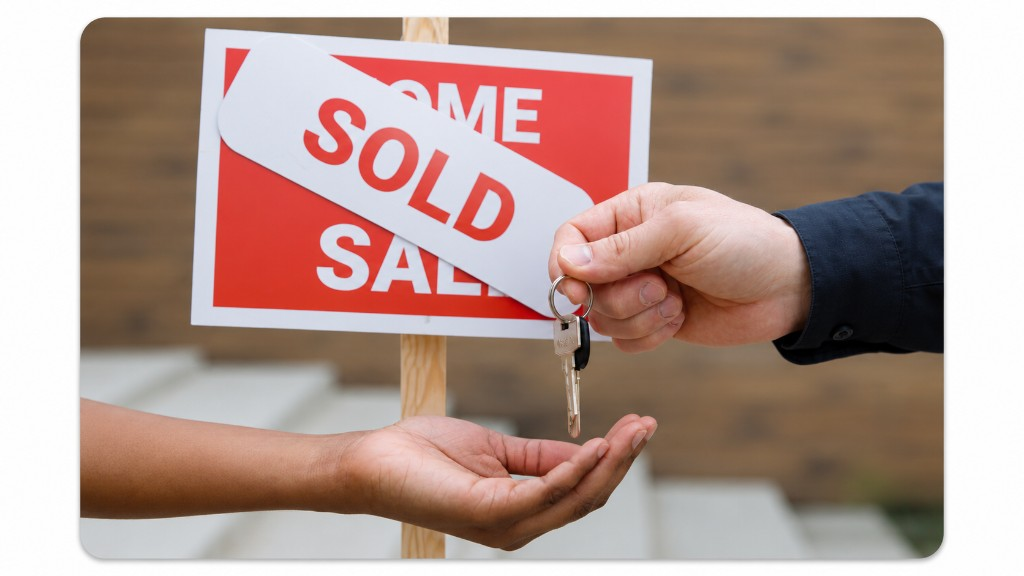
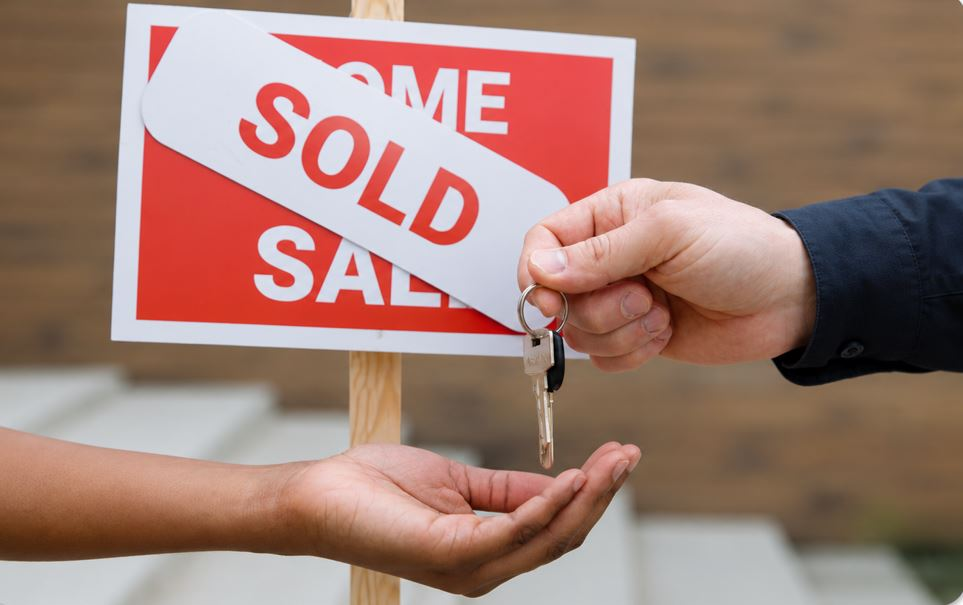
Replace Real Estate card photo and restore cover fit for alignment.

diff --git a/index.html b/index.html
@@ -1026,7 +1026,7 @@
             <img
               src="assets/real-estate-keys-house.png"
               alt="Keys handed over at a sold property — real estate, lease, and property clean-outs"
-              class="block w-full min-w-0 rounded-xl border border-dark/10 shadow-sm object-fill h-52 sm:h-60"
+              class="block w-full min-w-0 rounded-xl border border-dark/10 shadow-sm object-cover object-center h-52 sm:h-60"
               loading="lazy"
               decoding="async"
             />
